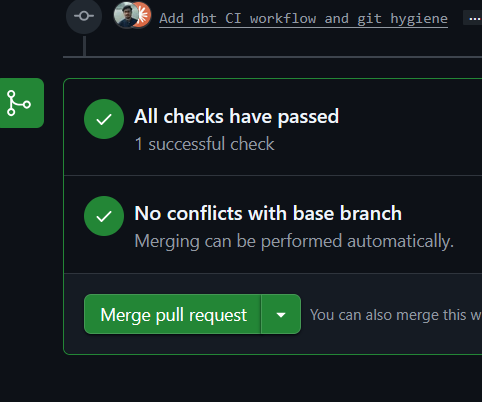
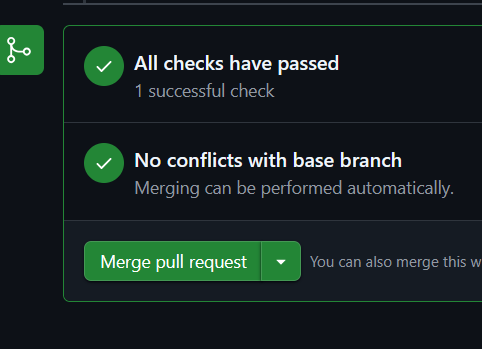
Explain the Silver/Gold row count gap in the scale test
The manifest records post-filter figures and the screenshot lists raw Silver
counts, so the two disagree until you account for the 60 flagged QA test
accounts and the 3,962 orders they carry.

diff --git a/README.md b/README.md
@@ -494,17 +494,29 @@ The seed dataset is small enough that a pipeline can pass on it by accident. To 
 rather than the data volume, the OLTP database was regenerated at roughly 100× and the entire chain
 re-run unchanged: no code edits, no tuning, no new activities.
 
-| | Seed | Scale test |
-|---|---|---|
-| Customers | 1,000 | 20,060 |
-| Products | 60 | 500 |
-| Orders | 9,961 | 1,000,000 |
-| Order items | 22,959 | 2,386,850 |
-| Payments | 8,183 | 833,757 |
-| Web events | 93,436 | 7,317,182 |
-| Web sessions | 23,193 | 1,679,200 |
+| | Seed | Silver (raw) | Gold (filtered) |
+|---|---|---|---|
+| Customers | 1,000 | 20,060 | 20,000 |
+| Products | 60 | 500 | 500 |
+| Orders | 9,961 | 1,000,000 | 996,038 |
+| Order items | 22,959 | 2,386,850 | 2,367,418 |
+| Payments | 8,183 | 833,757 | 818,178 |
+| Web events | 93,436 | 7,317,182 | 7,317,182 |
+| Web sessions | 23,193 | — | 1,679,200 |
 
 ![Row counts at scale](scale_up_results/totals_match.png)
+
+**Why the two columns differ.** Silver is a faithful copy of the source, so it keeps QA test accounts
+with an `is_test` flag rather than deleting them. They are filtered out one layer later, in
+`stg_orders`. At this scale 60 test customers carried 3,962 orders, 19,432 line items and 15,579
+payments, and that is the entire gap between the columns. Products and web events are not
+customer-scoped, so they are identical in both.
+
+The filtered figures are the ones in
+[`scale_up_results/scale_manifest.json`](scale_up_results/scale_manifest.json), and they match the
+Gold tables exactly: manifest `order_items` equals `fact_sales` at 2,367,418, and `web_sessions`
+equals `fact_web_sessions` at 1,679,200. The screenshot above lists the raw Silver counts alongside
+those two Gold tables, which is why its first rows are the larger numbers.
 
 **The reconciliation identity survives.** Payments total and gross revenue excluding Cancelled both
 come to **6,051,157,102.00**. Agreement at a million orders means the dedup logic in `stg_payments`
